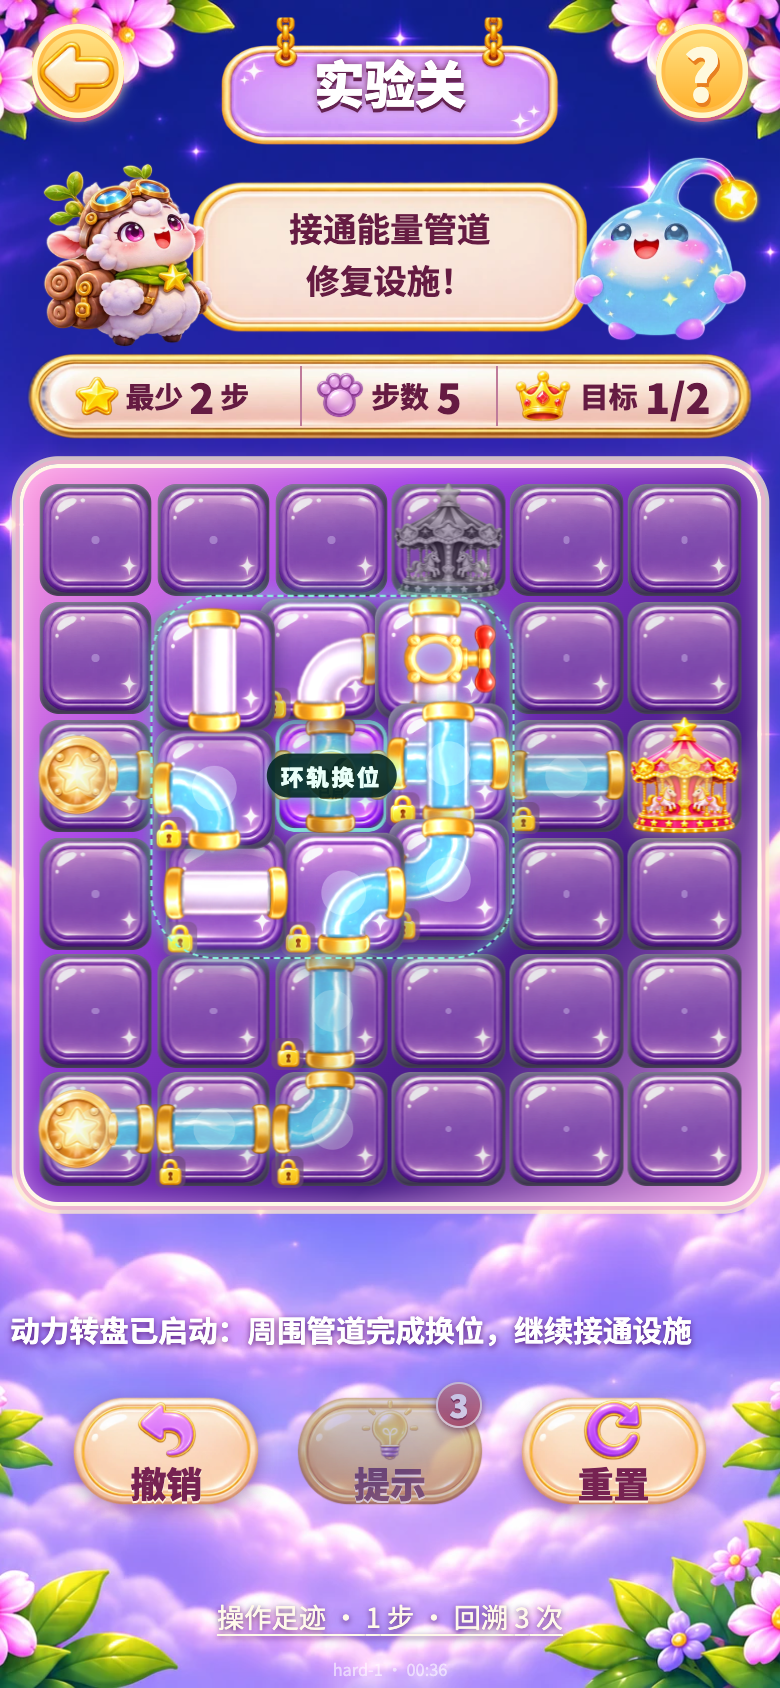
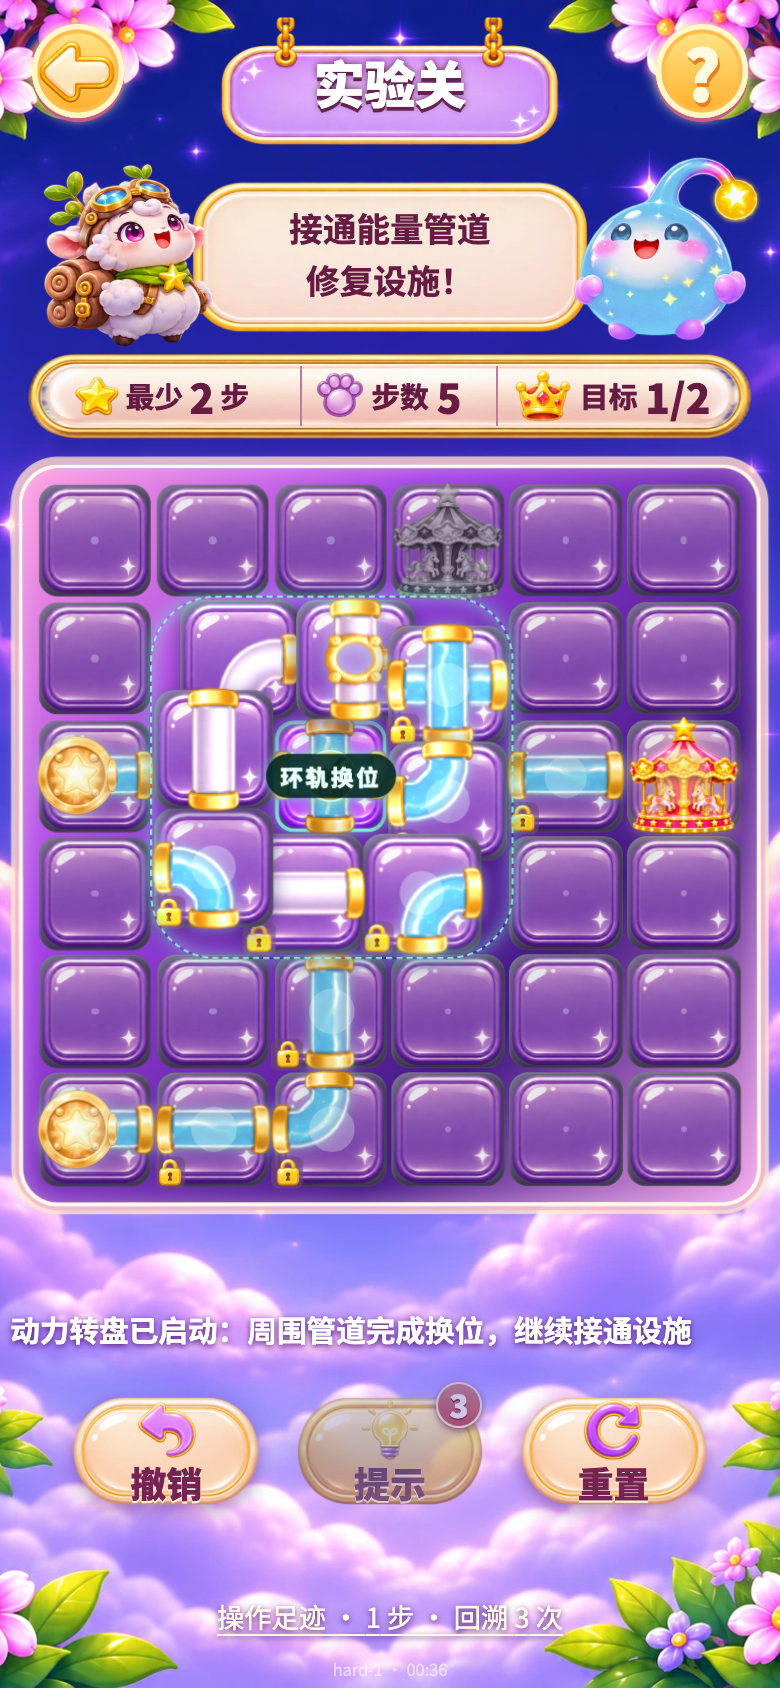
feat: 增加动力转盘机械震动

diff --git a/scripts/test_rotor_ui.ts b/scripts/test_rotor_ui.ts
@@ -32,6 +32,16 @@ page.on("console", (message) => {
 page.on("pageerror", (error) => errors.push(error.message));
 
 await page.goto(BASE_URL, { waitUntil: "networkidle" });
+await page.evaluate(`
+  window.__rotorVibrations = [];
+  Object.defineProperty(navigator, "vibrate", {
+    configurable: true,
+    value: function (pattern) {
+      window.__rotorVibrations.push(pattern);
+      return true;
+    }
+  });
+`);
 await closeTransientModals(page);
 await page.evaluate(() => document.fonts.ready);
 
@@ -82,13 +92,18 @@ await page.screenshot({
   animations: "allow",
 });
 const lessonState = await page.evaluate(() => {
-  const card = document.querySelector(".park-rotor-lesson");
+  const card = document.querySelector(
+    ".park-rotor-lesson, .park-mechanic-lesson",
+  );
   const rect = card?.getBoundingClientRect();
   return {
-    steps: document.querySelectorAll(".park-rotor-lesson-steps > div").length,
+    steps: document.querySelectorAll(
+      ".park-rotor-lesson-steps > div, .park-mechanic-lesson-steps > div",
+    ).length,
     orbitVisible: Boolean(
-      document.querySelector(".park-rotor-lesson-orbit")?.getBoundingClientRect()
-        .width,
+      document.querySelector(
+        ".park-rotor-lesson-orbit, .park-mechanic-lesson-orbit",
+      )?.getBoundingClientRect().width,
     ),
     insideViewport:
       Boolean(rect) &&
@@ -97,7 +112,9 @@ const lessonState = await page.evaluate(() => {
       rect!.left >= 0 &&
       rect!.right <= window.innerWidth,
     clipped: Array.from(
-      document.querySelectorAll(".park-rotor-lesson h2, .park-rotor-lesson span"),
+      document.querySelectorAll(
+        ".park-rotor-lesson h2, .park-rotor-lesson span, .park-mechanic-lesson h2, .park-mechanic-lesson span",
+      ),
     )
       .filter((node) => {
         const nodeRect = node.getBoundingClientRect();
@@ -160,6 +177,13 @@ const motion = await page.evaluate(() => ({
   ).filter((node) =>
     node.getAnimations().some((animation) => animation.playState === "running"),
   ).length,
+  boardShaking: document
+    .querySelector(".park-board")
+    ?.getAnimations()
+    .some((animation) => animation.playState === "running"),
+  vibrationPatterns: (
+    window as Window & { __rotorVibrations?: (number | number[])[] }
+  ).__rotorVibrations,
   callout: document.querySelector(".park-rotor-callout")?.textContent?.trim(),
 }));
 await page.screenshot({
@@ -213,7 +237,7 @@ await page.screenshot({
 });
 const compactLessonState = await page.evaluate(() => {
   const rect = document
-    .querySelector(".park-rotor-lesson")
+    .querySelector(".park-rotor-lesson, .park-mechanic-lesson")
     ?.getBoundingClientRect();
   return {
     insideViewport:
@@ -275,6 +299,9 @@ if (
   initial.target !== "0/2" ||
   motion.movingTiles !== 8 ||
   motion.runningAnimations !== 8 ||
+  !motion.boardShaking ||
+  JSON.stringify(motion.vibrationPatterns?.at(-1)) !==
+    JSON.stringify([32, 90, 12, 480, 64]) ||
   motion.callout !== "环轨换位" ||
   afterShift.active !== "true" ||
   afterShift.movingTiles !== 0 ||

diff --git a/src/index.css b/src/index.css
@@ -1474,7 +1474,7 @@ img {
   white-space: nowrap;
   transform: translate(-50%, -50%);
   box-shadow: 0 0 1.5cqw #7df0d1aa;
-  animation: rotorShiftLabel 0.92s ease-out both;
+  animation: rotorShiftLabel 0.96s ease-out both;
 }
 .park-rotor-motion {
   position: absolute;
@@ -1486,7 +1486,8 @@ img {
   position: absolute;
   pointer-events: none;
   filter: brightness(1.16) drop-shadow(0 0.8cqw 1.2cqw #3e1d71aa);
-  animation: rotorRailRide 0.88s cubic-bezier(0.32, 0.72, 0.22, 1) both;
+  animation: rotorRailRide 0.94s linear both;
+  will-change: transform, opacity;
 }
 .park-rotor-moving-tile > .park-tile {
   width: 100%;
@@ -1546,23 +1547,46 @@ img {
     inset 0 -0.5cqw 0.8cqw #7c4a0066;
 }
 .park-board.is-rotor-spin .park-rotor-orbit {
-  animation: rotorOrbitPulse 0.88s ease-out both;
+  animation: rotorOrbitPulse 0.94s ease-out both;
 }
 .park-board.is-rotor-spin .park-tile.is-rotor-ring {
   opacity: 0;
 }
+.park-board.is-rotor-spin {
+  transform-origin: 50% 50%;
+  animation: rotorBoardShake 0.94s linear both;
+  will-change: transform;
+}
 @keyframes rotorRailRide {
   0% {
     opacity: 0;
-    transform: translate(0, 0) scale(0.9);
+    transform: translate(0, 0) scale(0.92);
   }
-  10% {
+  3% {
     opacity: 1;
   }
-  72% {
+  12% {
+    transform: translate(0, 0) scale(1.035);
+  }
+  68% {
     transform:
-      translate(var(--rotor-move-x), var(--rotor-move-y))
-      scale(1.08);
+      translate(var(--rotor-glide-x), var(--rotor-glide-y))
+      scale(1.065);
+  }
+  76% {
+    transform:
+      translate(var(--rotor-lock-x), var(--rotor-lock-y))
+      scale(1.09);
+  }
+  82% {
+    transform:
+      translate(var(--rotor-over-x), var(--rotor-over-y))
+      scale(1.025);
+  }
+  88% {
+    transform:
+      translate(var(--rotor-settle-x), var(--rotor-settle-y))
+      scale(0.992);
   }
   100% {
     opacity: 1;
@@ -1570,6 +1594,17 @@ img {
       translate(var(--rotor-move-x), var(--rotor-move-y))
       scale(1);
   }
+}
+@keyframes rotorBoardShake {
+  0%, 68%, 100% { transform: translate(0, 0) rotate(0deg) scale(1); }
+  3% { transform: translate(-0.35cqw, 0.12cqw) rotate(-0.12deg) scale(1); }
+  6% { transform: translate(0.28cqw, -0.1cqw) rotate(0.1deg) scale(1.002); }
+  10% { transform: translate(-0.12cqw, 0.06cqw) rotate(-0.05deg) scale(1); }
+  74% { transform: translate(0.18cqw, -0.16cqw) rotate(0.08deg) scale(1.006); }
+  78% { transform: translate(-0.5cqw, 0.24cqw) rotate(-0.16deg) scale(1.012); }
+  82% { transform: translate(0.42cqw, -0.18cqw) rotate(0.13deg) scale(1.006); }
+  86% { transform: translate(-0.24cqw, 0.1cqw) rotate(-0.08deg) scale(1.002); }
+  90% { transform: translate(0.12cqw, -0.04cqw) rotate(0.04deg) scale(1); }
 }
 @keyframes rotorOrbitPulse {
   0% { opacity: 0.45; transform: scale(0.96); }

diff --git a/src/utils/audio.ts b/src/utils/audio.ts
@@ -105,6 +105,53 @@ class SoundSystem {
     }
   }
 
+  // 动力转盘：低频启动、轨道细齿、末端金属落锁
+  public playRotor() {
+    if (this.muted) return;
+    this.initCtx();
+    if (!this.ctx) return;
+
+    try {
+      const now = this.ctx.currentTime;
+      const hit = (
+        freq: number,
+        targetFreq: number,
+        start: number,
+        duration: number,
+        level: number,
+        type: OscillatorType,
+      ) => {
+        if (!this.ctx) return;
+        const osc = this.ctx.createOscillator();
+        const gain = this.ctx.createGain();
+        osc.type = type;
+        osc.frequency.setValueAtTime(freq, now + start);
+        osc.frequency.exponentialRampToValueAtTime(
+          Math.max(35, targetFreq),
+          now + start + duration,
+        );
+        gain.gain.setValueAtTime(level, now + start);
+        gain.gain.exponentialRampToValueAtTime(
+          0.001,
+          now + start + duration,
+        );
+        osc.connect(gain);
+        gain.connect(this.ctx.destination);
+        osc.start(now + start);
+        osc.stop(now + start + duration);
+      };
+
+      hit(118, 64, 0, 0.17, 0.24, "sawtooth");
+      hit(420, 210, 0.07, 0.045, 0.1, "square");
+      hit(760, 460, 0.17, 0.035, 0.055, "triangle");
+      hit(680, 380, 0.46, 0.035, 0.045, "triangle");
+      hit(92, 52, 0.7, 0.13, 0.28, "square");
+      hit(1250, 820, 0.71, 0.025, 0.08, "triangle");
+    } catch {
+      // ignore
+    }
+  }
+
   // Electrical current connection pulse
   public playConnect() {
     if (this.muted) return;

diff --git a/src/components/GameBoard.tsx b/src/components/GameBoard.tsx
@@ -143,7 +143,7 @@ export function GameBoard({
     const timer = setTimeout(() => {
       setRotorSpinning(false);
       setRotorMotion(null);
-    }, 880);
+    }, 960);
     return () => clearTimeout(timer);
   }, [rotorSpinning]);
 
@@ -157,6 +157,8 @@ export function GameBoard({
       );
       if (!tile) return [];
       const destination = positions[(index + 1) % positions.length];
+      const moveX = destination.col - position.col;
+      const moveY = destination.row - position.row;
       return [
         {
           tile,
@@ -165,8 +167,16 @@ export function GameBoard({
             top: `${(position.row / gridRows) * 100}%`,
             width: `${100 / gridCols}%`,
             height: `${100 / gridRows}%`,
-            "--rotor-move-x": `${(destination.col - position.col) * 100}%`,
-            "--rotor-move-y": `${(destination.row - position.row) * 100}%`,
+            "--rotor-glide-x": `${moveX * 68}%`,
+            "--rotor-glide-y": `${moveY * 68}%`,
+            "--rotor-lock-x": `${moveX * 96}%`,
+            "--rotor-lock-y": `${moveY * 96}%`,
+            "--rotor-over-x": `${moveX * 102}%`,
+            "--rotor-over-y": `${moveY * 102}%`,
+            "--rotor-settle-x": `${moveX * 99}%`,
+            "--rotor-settle-y": `${moveY * 99}%`,
+            "--rotor-move-x": `${moveX * 100}%`,
+            "--rotor-move-y": `${moveY * 100}%`,
           } as React.CSSProperties,
         },
       ];

diff --git a/src/utils/haptics.ts b/src/utils/haptics.ts
@@ -74,6 +74,16 @@ class HapticEngine {
     }
   }
 
+  // 动力转盘：启动重拍、滑轨细颤、末端落锁
+  public rotorStart() {
+    if (!this.enabled || !this.isSupported()) return;
+    try {
+      navigator.vibrate([32, 90, 12, 480, 64]);
+    } catch {
+      // ignore
+    }
+  }
+
   // Celebratory victory vibration pattern when all water channels are connected
   public victory() {
     if (!this.enabled || !this.isSupported()) return;

diff --git a/src/App.tsx b/src/App.tsx
@@ -318,8 +318,8 @@ export default function App() {
     setHistory(nextHistory);
     setHistoryIndex(nextHistory.length - 1);
     if (rotorResult.activatedIds.length > 0) {
-      sound.playGear();
-      haptics.tapHeavy();
+      sound.playRotor();
+      haptics.rotorStart();
     } else if (toggle) {
       stats.current.switched = true;
       sound.playSwitch();

diff --git a/docs/superpowers/specs/2026-11-25-powered-rotor-lab-design.md b/docs/superpowers/specs/2026-11-25-powered-rotor-lab-design.md
@@ -39,6 +39,8 @@
 - 转盘使用固定十字管外观，中心叠加机关标识；启动后标识变为完成状态。
 - 环轨上的 8 格带轻量轨道描边。
 - 启动时 8 格管道沿方形环轨实际滑动一格，管道方向保持世界坐标不变。
+- 管道移动采用先加速、接近落点越过再回弹的机械节奏，整块棋盘在启动与落锁时短促震动。
+- 支持系统震动的设备播放“启动重拍、细颤、落锁”三段触觉；关闭触感设置后停止。
 - 滑动期间显示“环轨换位”提示，轨道同步脉冲高亮。
 - 底部说明明确区分启动前后：启动前提示“通电后环轨换位”，启动后提示“环轨已换位”。
 
@@ -54,3 +56,4 @@
 - 首页入口可进入实验关。
 - 在 390×844 与 360×800 手机视口截图检查入口、教学卡、棋盘、滑动过程和底部说明，无溢出与遮挡。
 - 浏览器验收确认启动时有 8 个管道副本处于运行中的轨道动画，动画结束后切回真实盘面。
+- 浏览器注入震动接口后，启动操作应发出 `[32, 90, 12, 480, 64]` 的触觉序列。

diff --git a/docs/QA/rotor-lab-2026-11-25/README.md b/docs/QA/rotor-lab-2026-11-25/README.md
@@ -31,10 +31,13 @@
 点击左侧直管后：
 
 - 转盘标识变为金色已启动状态。
-- 8 格管道沿方形环轨滑动一格，管道自身朝向保持不变。
+- 8 格管道沿方形环轨加速滑动，接近终点时越过落点再回弹锁紧，管道自身朝向保持不变。
+- 整块棋盘在启动瞬间和末端落锁时产生短促震动。
 - 环轨显示“环轨换位”，轨道同步高亮。
 - 原先位于上方的能量闸移动到右上，仍保持断开。
 - 右侧设施点亮，目标变为 `1/2`，剩余 5 步。
+
+支持系统震动的设备会收到“启动重拍 → 滑轨细颤 → 末端落锁”的分段触觉反馈。关闭设置中的“触感反馈”后不会触发；不支持系统震动的设备仍保留棋盘震动、落锁回弹和机械音效。
 
 ![启动换位](03-rotor-spinning-390x844.png)
 
